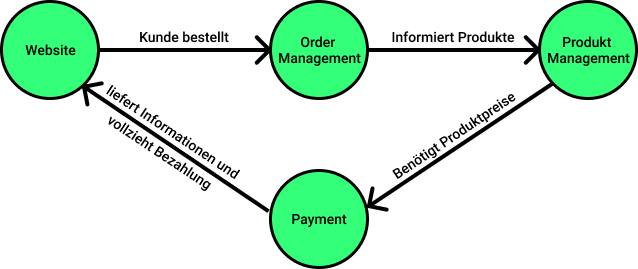
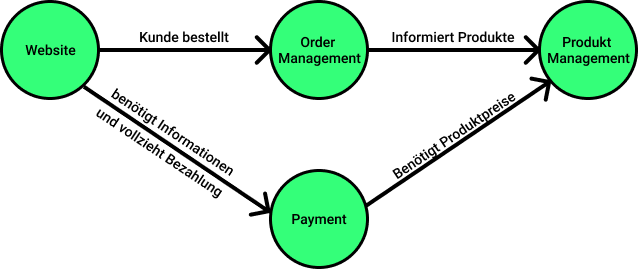
WIP geschichte

diff --git a/master.tex b/master.tex
@@ -101,19 +101,39 @@ Fragen:
 \end{itemize}
 
 \chapter{Einleitung}
-\chapter{Microservice und SOA}
-\section{Entwicklung in den letzten Jahren}
+\chapter{Microservice - Gouvernance - Observability}
 
-Um den Aufbau sowie die Anforderungen an Microservices zu verstehen, muss geklärt werden, wie und warum diese überhautp relevant wurde. Zuvor wurden Applikationen immer nur als sogenannte \textbf{Monolithen} entwickelt. Applikationen haben die Aufgabe komplexe Business-Prozesse abzubilden und müssen oftmals Aufgaben aus verschiedenen Bereichen eines Prozesses abbilden. Um ebendiesen Verlauf besser zu verstehen werden die verschiedenen \enquote{Entwicklungsstufen} von einem Aufbau als Monolith bis hin zu einer Microservicearchitektur anhand eines kleines Beispiels beleuchtet.
+Die Microservicearchitektur wurde erstmals 20XX von XXXX \marginpar{TODO: Quelle finden} vorgeschlagenen. Dabei wurden wichtige Elemente aus dem Vorgänger, der \ac{SOA} übernommen. Außerdem stellt diese Architektur einen Nachfolger für den monolithischen Architekturansatz dar. Im folgenden Teil soll anhand eines kurzes Beispiels erläutert werden, welche Aspekte der einzelnen Ansätze in die Microservicearchitektur einspielen.
 
-Dazu wird ein deutlich vereinfachter E-Commerce Prozess betrachtet. Es werden auf details verzichtet, da es im Rahmen des Beispiels nicht um die Prozessdefintion geht, sondern um die Ableitung einer Architektur. In einem einfachen Szenario sieht der Prozess folgendermaßen aus:
+\section{Die Geschichte der Microservicearchitektur}
+
+Applikationen dienen als Automatisierer und sollen helfen komplexe Prozesse einfacher und am besten ohne menschliches Zutun beenden zu können. Dabei besitz die Applikation Aufgaben, die aus der Gesamtheit des Prozesses erwachsen. Es kann also sein, dass Daten aus vielen verschiedenen Bereichen eines Unternehmens benötigt werden. Anhand eines vereinfachten Prozesses sollen nun die verscheidenen Architekturen abgeleitet werden. Im Beispiel wird ein Online-Shop dargestellt.
 
 \begin{figure}[h]
 	\centering
 	\includegraphics[width=1.0\linewidth]{img/prozess_eCommernce.png}
 	\caption[Prozess Online-Shop]{Vereinfachter Prozess eines Online-Shops mit vier Komponenten\\ Quelle: Eigen}
-	% \label{}
+	\label{fig:prozess_online_shop}
 \end{figure}
+
+In Abbildung \vref{fig:prozess_online_shop} ist der Prozess beschrieben. Es wird dabei nur ein einfacher Bestellprozess betrachtet. Ein Kunde bestellt auf einer Website bestimmte Produkte. Im Order-Management werden dann die Informationen zu entsprechenden Produkte, die zu dieser Bestellung gehören aus dem Produkt-Management angefordert. Mithilfe der Produktinformationen kann dann im Bezahlbereich ein Endpreis für den Nutzer kalkuliert werden. Die dort generierten Informationen können dann wieder der Website zur Verfügung gestellt werden, damit der Nutzer einen Bezahlvorgang einleiten kann.
+
+\subsection{Monolithen}
+Wird nun ein Entwicklerteam damit beauftragt ein System auf Basis dieses Prozesses zu implementieren so kann ein \textbf{monolithischer Ansatz} gewählt werden. Eine ebenfalls vereinfachte Architektur könnte für den oben beschreibenen Prozess folgendermaßen aussehen:
+
+\begin{figure}[h]
+	\centering
+	\includegraphics[width=1.0\linewidth]{img/monolitische_architektur.png}
+	\caption[monolitische Architektur]{Abbildung des Prozesses mithilfe eines monolithischen Ansatzes}
+	\label{fig:monolithic_arch}
+\end{figure}
+
+Die in \vref{fig:monolithic_arch} beschriebene Architektur hat einige Eigenschaften, welche sie zu einer monolithischen Architektur werde lassen. Dazu gehört unter anderem die Tatsache, dass der Prozess in verscheidene Komponenten oder Module unterteilt wird, welche alle zusammen die Applikation bilden. Zusätzlich greifen alle Komponenten, da sie als eine Einheit deployt werden auf dieselbe Datenbank zu. Sowohl die Tatsache, dass es nicht in einzelne Services sonder Komponenten unterteilt wurde und das sich eine gemeinsame Datenbank geteilt wird stellen Merkmale dar, welche auf eine monolithische Architektur schließen lassen. Ein Vorteil dieses Ansatzes ist, dass die Kommunikation zwischen den verscheidenen Komponenten sehr einfach ist, da diese meistens auch logisch als \textit{ein Programm} ablaufen. So kann das Order-Management Daten anfordern indem es eine Methode im Produkt-Management aufruft. Ein \textbf{Nachteil} dieses Ansatzes besteht aber darin, das eine sehr starke Kohäsion und Abhängigkeit von der spezifischen Implementierung einer Komponente besteht. So kann beispielsweise das Order-Management nur ausgestausch werden, wenn unter viel Aufwand auch alle anderen Komponenten in dem Monolithen angepasst werden. 
+\marginpar{evetl. noch mehr Nachteile aus dem Buch S.3}
+
+\subsection{SOA und ESB}
+
+Eine Lösung für die Nachteile, die ein Monolith mit sich bringt sollte mithilfe der \ac{SOA} erreicht werden. Die \ac{SOA} versucht die große, schwer skalierbare und stark zusammenhängende Einheit eines Monolithen aufzubrechen in kleine \enquote{self-contained} Services. Diese Services haben einen klar definierten Aufgabenbereich und besitzen ein wohldefiniertes Interface, welches \textbf{unabhängig} von der unterliegenden Implementierung ist. Dies löst bereits mehrere Probleme, welche in einem Monolithen vorhanden waren.
 
 \input{chapters/microservice/probleme_herausforderungen.tex}
 

diff --git a/acronyms.tex b/acronyms.tex
@@ -10,4 +10,5 @@
 	\acro{CNCF}{Cloud Native Compute Foundation}
 	\acro{RDBMS}{Relational Database Management System}
 	\acro{BMBF}{Bundesministerium für Bildung und Forschung}	
+	\acro{SOA}{Service Orientated Architechture}
 \end{acronym}
